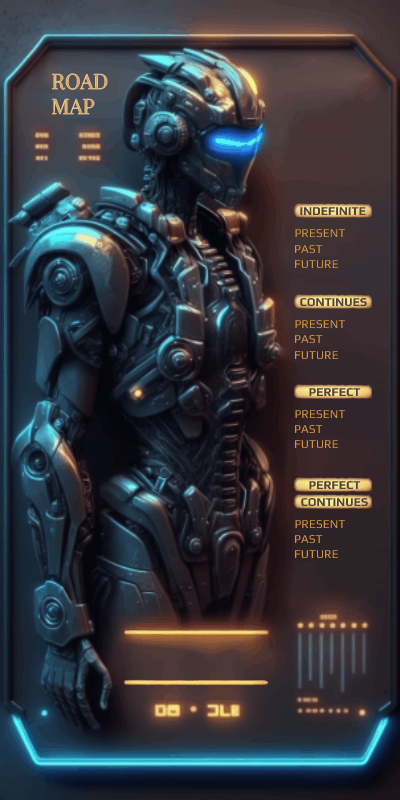
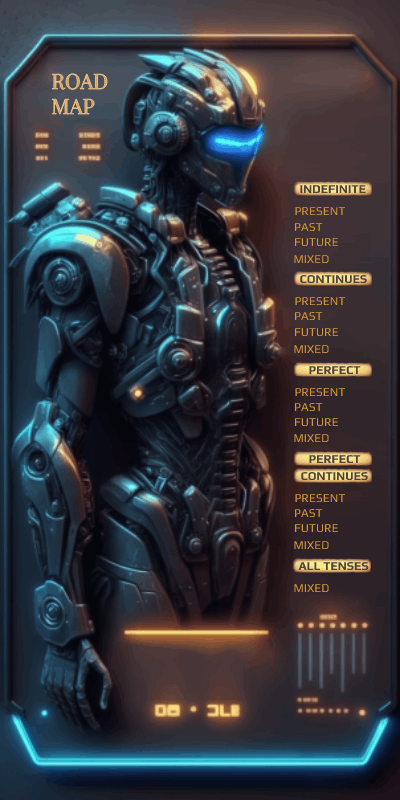
add indicators to road map screen

Changed region(s): [[0.72, 0.2188, 0.93, 0.75], [0.3, 0.8438, 0.66, 0.875]]

diff --git a/roadmap_screen.py b/roadmap_screen.py
@@ -1,37 +1,120 @@
+from kivy.storage.jsonstore import JsonStore
 from kivy.uix.button import Button
 from kivy.uix.gridlayout import GridLayout
 from kivy.uix.image import Image
 from kivy.uix.screenmanager import Screen
 from kivy.uix.label import Label
 from kivy.animation import Animation
-from kivy.core.window import Window
 
 from sistem import BackButton, StartButton
 
 
 class RoadmapScreen(Screen):
+    road_points = { 'i': [  'NTi+',    'NTi-',    'NTi?',    'NTi',
+                            'PTi+',    'PTi-',    'PTi?',    'PTi',
+                            'FTi+',    'FTi-',    'FTi?',    'FTi',
+                            'i+',    'i-',    'i?',    'i'],
+                    'c': [  'NTc+',    'NTc-',    'NTc?',    'NTc',
+                            'PTc+',    'PTc-',    'PTc?',    'PTc',
+                            'FTc+',    'FTc-',    'FTc?',    'FTc',
+                            'c+',    'c-',    'c?',   'c'
+                            ],
+                    'p': [  'pNT+',    'pNT-',    'pNT?',    'pNT',
+                            'pPT+',    'pPT-',    'pPT?',    'pPT',
+                            'pFT+',    'pFT-',    'pFT?',    'pFT',
+                            'p+',    'p-',    'p?',    'p'
+                            ],
+                    'PC': [ 'PCNT+',    'PCNT-',    'PCNT?',    'PCNT',
+                            'PCPT+',    'PCPT-',    'PCPT?',    'PCPT',
+                            'PCFT+',    'PCFT-',    'PCFT?',    'PCFT',
+                            'PC+',    'PC-',    'PC?',    'PC'
+                            ],
+                    '':    ['+', '-', '?',  ''
+                            ]
+    }
     def __init__(self, lang_data, screen_manager, **kwargs):
         super().__init__(**kwargs)
-        self.add_widget(Image(source='imgs/background_statistic.png', allow_stretch=True, keep_ratio=False))
-        self.indicator_grid = GridLayout(rows=25, row_default_height=20, row_force_default=True,
-                                                size_hint=[0.2, .2],
-                                                pos_hint={'center_x':  0.9, 'center_y': 0.65})
-        # for i in range(20):
-        #     self.indicator_grid.add_widget(Button(text='Indicator %d' % (i + 1),
-        #                                  size_hint=[0.1, .2], width = 30))
-        #     if (i+1) % 4 == 0:
-        #         self.indicator_grid.add_widget(Label(text=''))
-
+        self.aim = ''
+        self.aim_types = ''
+        ['road_map_data']
         self.screen_manager = screen_manager
         self.lang_data = lang_data
-        self.add_widget(self.indicator_grid)
+        self.add_widget(Image(source='imgs/background_statistic.png', allow_stretch=True, keep_ratio=False))
+        self.add_indicators()
         self.add_back_btn()
         self.add_start_btn()
-    def add_start_btn(self): # .3, .05
-        self.button = Button(background_normal='imgs/start_road_btn_normal.png',
-                             background_down='imgs/start_road_btn_down.png', size=(140, 40),
-            size_hint=[None, None], pos_hint={'center_x': 0.5, 'center_y': 0.18})
-        self.button.bind(on_press=self.goto_main)
+        self.wait_progress = False
+
+    def put_to_store(self, road_map_data):
+        store = JsonStore('mystore.json')
+        app_data = store.get('app_data')
+        store.put('app_data', selected_language=app_data['selected_language'], road_map=road_map_data)
+
+    def get_store(self):
+        store = JsonStore('mystore.json')
+        app_data = store.get('app_data')
+        return app_data['road_map']
+
+    def save_progress(self):
+        if self.wait_progress:
+            self.road_map_data[self.aim] = True
+            self.put_to_store(self.road_map_data)
+        self.add_indicators()
+    def add_indicators(self):
+        road_map_data = self.get_store()
+        if road_map_data == {}:
+            for point_types in self.road_points:
+                for point in self.road_points[point_types]:
+                    road_map_data[point] = False
+            self.put_to_store(road_map_data)
+        self.road_map_data = self.get_store()
+        self.indicator_grid = GridLayout(rows=25, size_hint=[0.07, 0.58],
+                                         pos_hint={'center_x': 0.90, 'center_y': 0.45})
+        self.add_widget(self.indicator_grid)
+        self.write_indicators()
+        self.wait_progress = False
+
+    def write_indicators(self):
+        aim = ''
+        for point_types in ['i', 'c', 'p', 'PC', '']:
+            if point_types == 'p':
+                indicator_types = GridLayout(cols=4, size_hint=[0.25, 0.31])
+            else:
+                indicator_types = GridLayout(cols=4, size_hint=[0.25, 0.25])
+            self.indicator_grid.add_widget(indicator_types)
+            for point in self.road_points[point_types]:
+                if self.road_map_data[point] == False:
+                    if aim == '':
+                        aim = point
+                        self.aim_types = point_types
+                    imb_indicator = 'imgs/indicator.png'
+                else:
+                    imb_indicator = 'imgs/indicator_passed.png'
+                result_widget = Image(source=imb_indicator, allow_stretch=True, keep_ratio=False,
+                                      size_hint=(1, 1),
+                                   )
+                indicator_types.add_widget(result_widget)
+                if '+' not in point and '-' not in point and '?' not in point:
+                    for i in range(4):
+                        indicator_types.add_widget(Label(text='', size_hint=(1, 1),
+                                               pos_hint={'top': 1, 'center_x': 0.5}))
+            if point_types == '':
+                for i in range(11):
+                    indicator_types.add_widget(Label(text='', size_hint=(1, 3),
+                                           pos_hint={'top': 1, 'center_x': 0.5}))
+            if point_types == 'p':
+                for i in range(4):
+                    indicator_types.add_widget(Label(text='', size_hint=(1, 3),
+                                           pos_hint={'top': 1, 'center_x': 0.5}))
+            indicator_types.add_widget(Label(text='', size_hint=(1, 3),
+                                       pos_hint={'top': 1, 'center_x': 0.5}))
+        self.aim = aim
+
+    def add_start_btn(self):
+        self.button = Button(background_normal='imgs/start_road_btn_normal.png', border=(0, 0, 0, 0),
+                             background_down='imgs/start_road_btn_down.png',
+            size_hint=[0.2, 0.04], pos_hint={'center_x': 0.5, 'center_y': 0.18})
+        self.button.bind(on_press=self.goto_round)
         self.add_widget(self.button)
 
     def add_back_btn(self):
@@ -43,3 +126,10 @@ class RoadmapScreen(Screen):
         animation = Animation(y=-180, duration=0.5)
         animation.start(self)
         self.screen_manager.current = 'screen1'
+
+    def goto_round(self, instance):
+        animation = Animation(y=-180, duration=0.5)
+        animation.start(self)
+        self.wait_progress = True
+        self.screen_manager.get_screen('screen3').choose_a_deck(self.aim)
+        self.screen_manager.current = 'screen3'

diff --git a/flash_card.py b/flash_card.py
@@ -13,7 +13,7 @@ from kivy.graphics import Rotate
 from kivy.uix.button import Button
 from kivy.uix.screenmanager import Screen
 
-from sistem import BackButton
+from sistem import BackButton, get_media_lvl
 
 
 class FlashCardScreen(Screen):
@@ -43,7 +43,12 @@ class FlashCardScreen(Screen):
         self.temp_aim = aim
         self.sentences_pair = self.lang_data.get_sentences_pair()
         self.round_sentences = []
-        self.deck_for_repeat = self.round_sentences.copy()
+        if 'FT' not in aim and 'NT' not in aim and 'PT' not in aim:
+            aim += 'FTNTPT'
+        if '+' not in aim and '-' not in aim and '?' not in aim:
+            aim += '+-?'
+        if 'i' not in aim and 'c' not in aim and 'p' not in aim and 'PC' not in aim:
+            aim += 'icpPC'
         if 'i' in aim:
             self.chose_tense_type('Indefinite', aim)
         if 'c' in aim:
@@ -52,6 +57,7 @@ class FlashCardScreen(Screen):
             self.chose_tense_type('Perfect', aim)
         if 'PC' in aim:
             self.chose_tense_type('PerfectContinuous', aim)
+        self.deck_for_repeat = self.round_sentences.copy()
         self.viewing_card = self.get_random_place()
         self.passed_cards = 0
         self.all_mistakes_count = 0
@@ -62,11 +68,8 @@ class FlashCardScreen(Screen):
         self.failed_cards.append(self.viewing_card)
 
     def load_old_deck(self):
-        print('deck_for_repeat', self.deck_for_repeat)
         self.round_sentences = self.deck_for_repeat.copy()
-        print('round_sentences', self.round_sentences)
         self.viewing_card = self.get_random_place()
-        print('viewing_card', self.viewing_card)
         self.clear_widgets()
         self.flash_card = FlashCard(self.viewing_card)
         self.add_widget(self.flash_card)
@@ -142,7 +145,6 @@ class FlashCard(FloatLayout, DragBehavior):
     def __init__(self, viewing_card,  **kwargs):
         super().__init__(**kwargs)
         self.viewing_card = viewing_card
-        card_pos = (200, 400)
         self.front = self.create_new_card('fleshcard_new.png', viewing_card[0])
         self.back = self.create_new_card('fleshcard_know.png', viewing_card[1])
         self.fail = self.create_new_card('fleshcard_fail.png', '')
@@ -228,9 +230,10 @@ class ResultsCard(Screen):
         self.mistakes = Label(text=str(mistakes), font_size='15sp')
         self.result_grid.add_widget(self.mistakes)
         self.round_result = round(pass_time / (passed_cards - mistakes), 1)
-        if self.round_result < 3:
+        if self.round_result < 3:##############################################################################
             self.time_color = (115, 43, 93)
             self.continue_btn()
+            self.screen_manager.get_screen('screen2').save_progress()
         else:
             self.time_color = (10, 84, 89)
             self.repeat_btn()
@@ -239,7 +242,8 @@ class ResultsCard(Screen):
         self.add_back_btn()
 
     def continue_btn(self):
-        self.continue_button = Button(size_hint=[.42, .055],
+
+        self.continue_button = Button(size_hint=[.42, .055], border=(0, 0, 0, 0),
                                       background_normal='imgs/continue_normal.png',
                                       background_down='imgs/continue_down.png',
                                       pos_hint={'center_x': 0.50, 'top': 0.185})
@@ -247,7 +251,7 @@ class ResultsCard(Screen):
         self.add_widget(self.continue_button)
 
     def repeat_btn(self):
-        self.continue_button = Button(size_hint=[.42, .055],
+        self.continue_button = Button(size_hint=[.42, .055], border=(0, 0, 0, 0),
                                       background_normal='imgs/repeat_normal.png',
                                       background_down='imgs/repeat_down.png',
                                       pos_hint={'center_x': 0.50, 'top': 0.185})
@@ -256,7 +260,8 @@ class ResultsCard(Screen):
         self.add_widget(self.continue_button)
 
     def add_back_btn(self):
-        self.button = BackButton(size_hint=[.2, .1], size=(80, 80), pos_hint={'right': 0.90, 'top': 0.95})
+        self.button = BackButton(size_hint=[.2, .1], size=(80, 80), pos_hint={'right': 0.90, 'top': 0.95},
+                                  border=(0, 0, 0, 0),)
         self.button.bind(on_press=self.goto_main)
         self.add_widget(self.button)
 

diff --git a/main.py b/main.py
@@ -12,7 +12,7 @@ from roadmap_screen import RoadmapScreen
 from flash_card import FlashCardScreen
 from mode_screen import ModeScreen
 
-Window.size = (400, 800)
+Window.size = (500, 1000)
 # add repid button to result screen
 
 class MainScreen(Screen):
@@ -55,7 +55,10 @@ def screen_manager_rebuild(selected_language):
     global lang_data, store
     screen_manager.clear_widgets()
     lang_data.update_language(selected_language)
-    store.put('mykey', selected_language=selected_language)
+    store.put('app_data', selected_language=selected_language, road_map=app_data['road_map'])
+    create_widget_screens()
+
+def create_widget_screens():
     screen_manager.add_widget(LanguageScreen(lang_data, screen_manager, name='screen4'))
     screen_manager.add_widget(MainScreen(name='screen1'))
     screen_manager.add_widget(RoadmapScreen(lang_data, screen_manager, name='screen2'))
@@ -63,23 +66,17 @@ def screen_manager_rebuild(selected_language):
     screen_manager.add_widget(ModeScreen(lang_data, screen_manager, name='mode_screen'))
 
 store = JsonStore('mystore.json')
-if 'mykey' in store:
-    print(store.get('mykey'))
-    selected_language = store.get('mykey')['selected_language']
-    print('Key exists')
+if 'app_data' in store:
+    app_data = store.get('app_data')
+    selected_language = app_data['selected_language']
 else:
-    store.put('mykey', selected_language='Русский')
+    store.put('app_data', selected_language='Русский', road_map={})
     selected_language = 'Русский'
 
 lang_data = LanguageData()
 lang_data.update_language(selected_language)
-
-screen_manager.add_widget(MainScreen(name='screen1'))
-screen_manager.add_widget(RoadmapScreen(lang_data, screen_manager, name='screen2'))
-screen_manager.add_widget(FlashCardScreen(lang_data, screen_manager, name='screen3'))
-screen_manager.add_widget(LanguageScreen(lang_data, screen_manager, name='screen4'))
-screen_manager.add_widget(ModeScreen(lang_data, screen_manager, name='mode_screen'))
-screen_manager.current = 'screen3'
+create_widget_screens()
+screen_manager.current = 'screen1'
 
 screen_manager.rebuild = screen_manager_rebuild
 

diff --git a/mode_screen.py b/mode_screen.py
@@ -78,7 +78,8 @@ class ModeScreen(Screen):
 
 
     def add_back_btn(self):
-        self.button = BackButton(size_hint=[.2, .1], size=(80, 80), pos_hint={'right': 0.99, 'top': 0.99})
+        self.button = BackButton(size_hint=[.2, .1], size=(80, 80), pos_hint={'right': 0.99, 'top': 0.99},
+                                  border=(0, 0, 0, 0),)
         self.button.bind(on_press=self.goto_main)
         self.add_widget(self.button)
 
@@ -130,5 +131,6 @@ class ModeScreen(Screen):
                 ans += 'PT'
         animation = Animation(y=-180, duration=0.5)
         animation.start(self)
+        self.screen_manager.get_screen('screen2').wait_progress = False
         self.screen_manager.get_screen('screen3').choose_a_deck(ans)
         self.screen_manager.current = 'screen3'

diff --git a/sistem.py b/sistem.py
@@ -1,5 +1,6 @@
 from kivy.uix.button import Button
 from kivy.lang import Builder
+from kivy.core.window import Window
 
 kv = """
 <BackButton@Button>:
@@ -32,3 +33,12 @@ class StartButton(Button):
     pass
 
 Builder.load_string(kv)
+
+
+def get_media_lvl():
+    media_lvl = 'M1'
+    if Window.size[1] > 1500:
+        if Window.size[0] < 1500:
+            media_lvl = 'M2'
+    print('media_lvl', media_lvl)
+    return media_lvl
